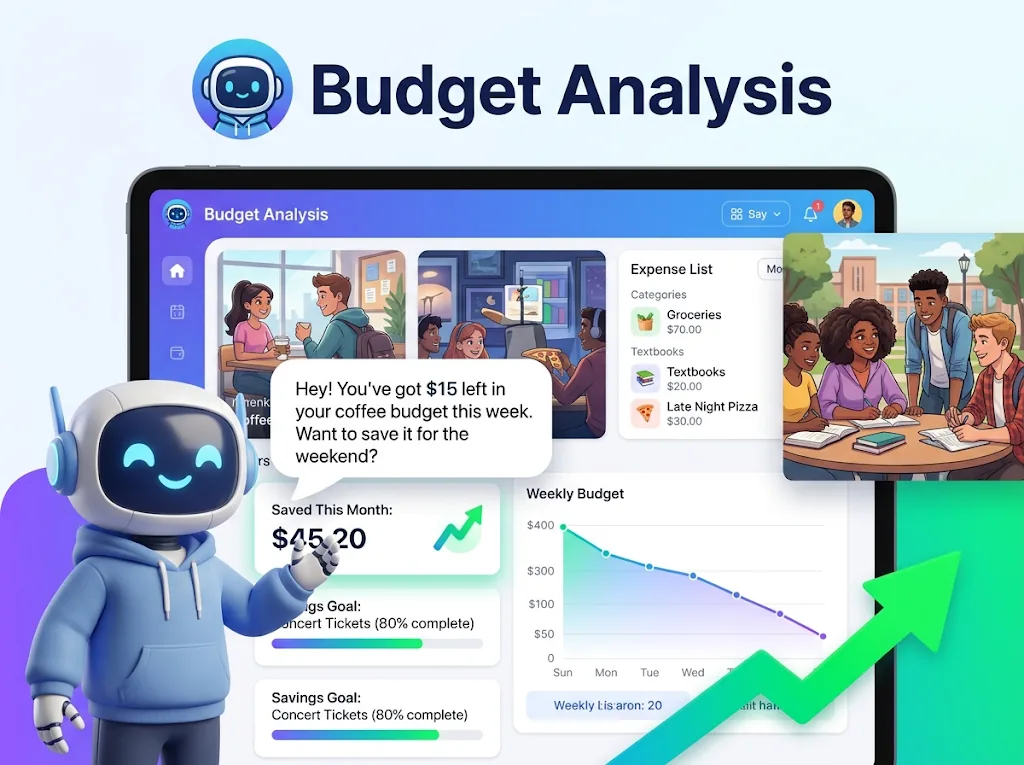
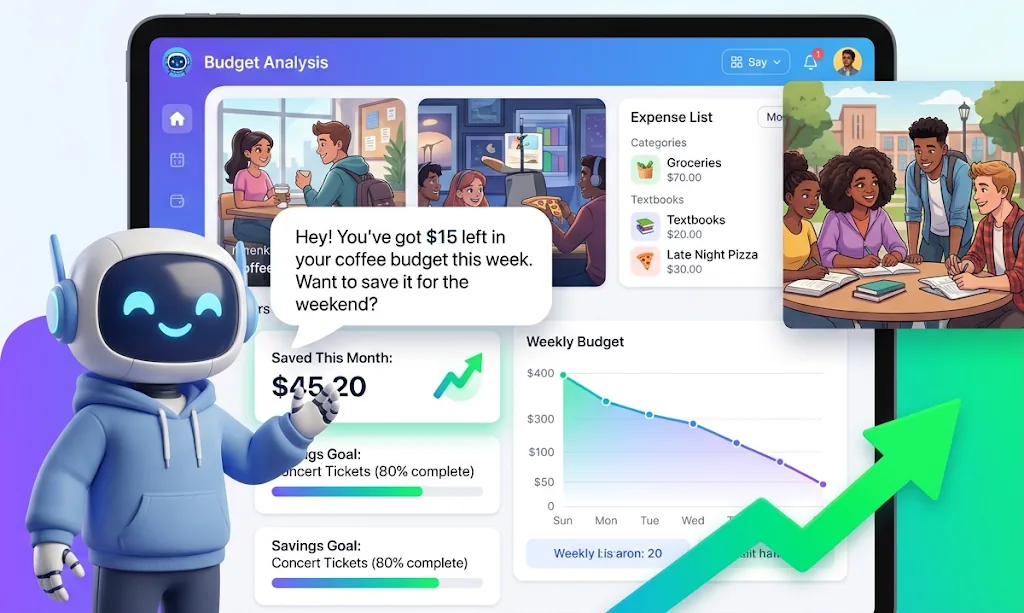
CSP: allow the Vercel toolbar on previews only; crop the hero title

diff --git a/frontend/next.config.ts b/frontend/next.config.ts
@@ -11,14 +11,18 @@ const API_ORIGIN = process.env.API_ORIGIN ?? "http://localhost:8000";
 // our theme script in layout.tsx). Replacing it with per-request nonces is planned for
 // the security audit (phase 5, docs/security/THREAT_MODEL.md).
 const GOOGLE = "https://accounts.google.com";
+// Preview deployments (one per branch) show Vercel's comment toolbar, which loads from
+// vercel.live. It is allowed there only: the real site never needs it.
+const PREVIEW = process.env.VERCEL_ENV === "preview";
+const VERCEL_LIVE = PREVIEW ? " https://vercel.live" : "";
 const CSP = [
   "default-src 'self'",
-  `script-src 'self' 'unsafe-inline' ${GOOGLE}/gsi/client`,
-  `style-src 'self' 'unsafe-inline' ${GOOGLE}/gsi/style`,
-  "img-src 'self' data: blob:",
-  "font-src 'self' data:",
-  `connect-src 'self' ${GOOGLE}/gsi/`,
-  `frame-src ${GOOGLE}/gsi/`,
+  `script-src 'self' 'unsafe-inline' ${GOOGLE}/gsi/client${VERCEL_LIVE}`,
+  `style-src 'self' 'unsafe-inline' ${GOOGLE}/gsi/style${VERCEL_LIVE}`,
+  `img-src 'self' data: blob:${PREVIEW ? " https://vercel.live https://vercel.com" : ""}`,
+  `font-src 'self' data:${PREVIEW ? " https://vercel.live https://assets.vercel.com" : ""}`,
+  `connect-src 'self' ${GOOGLE}/gsi/${PREVIEW ? " https://vercel.live wss://ws-us3.pusher.com" : ""}`,
+  `frame-src ${GOOGLE}/gsi/${VERCEL_LIVE}`,
   "object-src 'none'",
   "base-uri 'self'",
   "form-action 'self'",

diff --git a/frontend/src/components/landing/Landing.tsx b/frontend/src/components/landing/Landing.tsx
@@ -66,8 +66,9 @@ export function Landing() {
           it, strong behind the text and gone on the far side, so the text stays readable
           in both themes (in dark mode the paper, and so the veil, is dark). */}
       <div className="relative isolate overflow-hidden">
-        {/* Anchored at the bottom: the picture's own title (at its top) is cropped away. */}
-        <div aria-hidden className="absolute inset-0 -z-10 bg-[url(/hero.webp)] bg-cover bg-bottom" />
+        {/* The picture's own title was cut off the file itself, so it never shows twice,
+            whatever the screen shape (on phones the whole height is visible). */}
+        <div aria-hidden className="absolute inset-0 -z-10 bg-[url(/hero.webp)] bg-cover bg-center" />
         <div aria-hidden className="absolute inset-0 -z-10 bg-paper/70 lg:hidden" />
         <div
           aria-hidden
